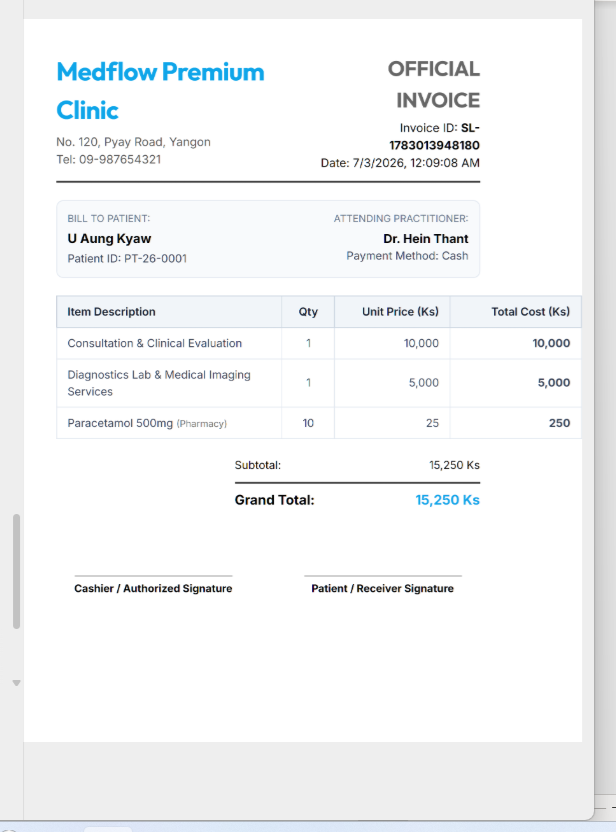
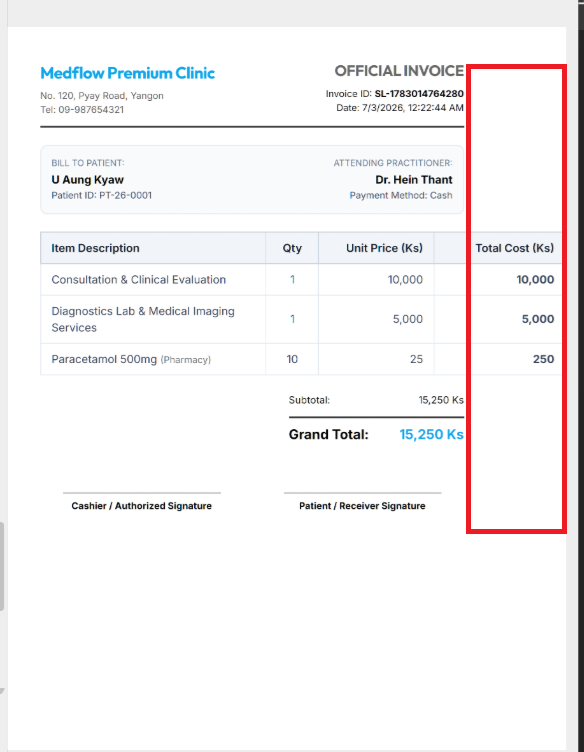
Enforce identical physical widths on both tables and all container blocks (header, details, totals) in printable formats to achieve pixel-perfect alignment

diff --git a/src/pages/POS.jsx b/src/pages/POS.jsx
@@ -836,42 +836,44 @@ export default function POS({ clinicMode }) {
               </div>
             </div>
 
-            <table style={{ width: '100%', borderCollapse: 'collapse', marginBottom: '20px' }}>
-              <thead>
-                <tr style={{ background: '#0f172a', color: '#fff', textAlign: 'left' }}>
-                  <th style={{ padding: '8px', border: '1px solid #334155', fontSize: '9.5pt' }}>Item Description</th>
-                  <th style={{ padding: '8px', border: '1px solid #334155', textAlign: 'center', width: '10%', fontSize: '9.5pt' }}>Qty</th>
-                  <th style={{ padding: '8px', border: '1px solid #334155', textAlign: 'right', width: '22%', fontSize: '9.5pt' }}>Unit Price (Ks)</th>
-                  <th style={{ padding: '8px', border: '1px solid #334155', textAlign: 'right', width: '25%', fontSize: '9.5pt' }}>Total Cost (Ks)</th>
-                </tr>
-              </thead>
-              <tbody>
-                <tr style={{ fontSize: '9.5pt' }}>
-                  <td style={{ padding: '8px', border: '1px solid #e2e8f0' }}>Consultation & Clinical Evaluation</td>
-                  <td style={{ padding: '8px', border: '1px solid #e2e8f0', textAlign: 'center' }}>1</td>
-                  <td style={{ padding: '8px', border: '1px solid #e2e8f0', textAlign: 'right' }}>{printInvoiceData.consultationFee.toLocaleString()}</td>
-                  <td style={{ padding: '8px', border: '1px solid #e2e8f0', textAlign: 'right', fontWeight: 'bold' }}>{printInvoiceData.consultationFee.toLocaleString()}</td>
-                </tr>
-                {printInvoiceData.investigationFee > 0 && (
+            <div style={{ width: '100%', boxSizing: 'border-box' }}>
+              <table style={{ width: '100%', borderCollapse: 'collapse', marginBottom: '20px' }}>
+                <thead>
+                  <tr style={{ background: '#0f172a', color: '#fff', textAlign: 'left' }}>
+                    <th style={{ padding: '8px', border: '1px solid #334155', fontSize: '9.5pt' }}>Item Description</th>
+                    <th style={{ padding: '8px', border: '1px solid #334155', textAlign: 'center', width: '10%', fontSize: '9.5pt' }}>Qty</th>
+                    <th style={{ padding: '8px', border: '1px solid #334155', textAlign: 'right', width: '22%', fontSize: '9.5pt' }}>Unit Price (Ks)</th>
+                    <th style={{ padding: '8px', border: '1px solid #334155', textAlign: 'right', width: '25%', fontSize: '9.5pt' }}>Total Cost (Ks)</th>
+                  </tr>
+                </thead>
+                <tbody>
                   <tr style={{ fontSize: '9.5pt' }}>
-                    <td style={{ padding: '8px', border: '1px solid #e2e8f0' }}>Diagnostics Lab & Medical Imaging Services</td>
+                    <td style={{ padding: '8px', border: '1px solid #e2e8f0' }}>Consultation & Clinical Evaluation</td>
                     <td style={{ padding: '8px', border: '1px solid #e2e8f0', textAlign: 'center' }}>1</td>
-                    <td style={{ padding: '8px', border: '1px solid #e2e8f0', textAlign: 'right' }}>{printInvoiceData.investigationFee.toLocaleString()}</td>
-                    <td style={{ padding: '8px', border: '1px solid #e2e8f0', textAlign: 'right', fontWeight: 'bold' }}>{printInvoiceData.investigationFee.toLocaleString()}</td>
+                    <td style={{ padding: '8px', border: '1px solid #e2e8f0', textAlign: 'right' }}>{printInvoiceData.consultationFee.toLocaleString()}</td>
+                    <td style={{ padding: '8px', border: '1px solid #e2e8f0', textAlign: 'right', fontWeight: 'bold' }}>{printInvoiceData.consultationFee.toLocaleString()}</td>
                   </tr>
-                )}
-                {printInvoiceData.items.map((item, idx) => (
-                  <tr key={idx} style={{ fontSize: '9.5pt' }}>
-                    <td style={{ padding: '8px', border: '1px solid #e2e8f0' }}>
-                      {item.name} <span style={{ fontSize: '8pt', color: '#666' }}>({item.type === 'custom' ? 'Service/Fee' : 'Pharmacy'})</span>
-                    </td>
-                    <td style={{ padding: '8px', border: '1px solid #e2e8f0', textAlign: 'center' }}>{item.quantity}</td>
-                    <td style={{ padding: '8px', border: '1px solid #e2e8f0', textAlign: 'right' }}>{item.unitPrice.toLocaleString()}</td>
-                    <td style={{ padding: '8px', border: '1px solid #e2e8f0', textAlign: 'right', fontWeight: 'bold' }}>{item.totalCost.toLocaleString()}</td>
-                  </tr>
-                ))}
-              </tbody>
-            </table>
+                  {printInvoiceData.investigationFee > 0 && (
+                    <tr style={{ fontSize: '9.5pt' }}>
+                      <td style={{ padding: '8px', border: '1px solid #e2e8f0' }}>Diagnostics Lab & Medical Imaging Services</td>
+                      <td style={{ padding: '8px', border: '1px solid #e2e8f0', textAlign: 'center' }}>1</td>
+                      <td style={{ padding: '8px', border: '1px solid #e2e8f0', textAlign: 'right' }}>{printInvoiceData.investigationFee.toLocaleString()}</td>
+                      <td style={{ padding: '8px', border: '1px solid #e2e8f0', textAlign: 'right', fontWeight: 'bold' }}>{printInvoiceData.investigationFee.toLocaleString()}</td>
+                    </tr>
+                  )}
+                  {printInvoiceData.items.map((item, idx) => (
+                    <tr key={idx} style={{ fontSize: '9.5pt' }}>
+                      <td style={{ padding: '8px', border: '1px solid #e2e8f0' }}>
+                        {item.name} <span style={{ fontSize: '8pt', color: '#666' }}>({item.type === 'custom' ? 'Service/Fee' : 'Pharmacy'})</span>
+                      </td>
+                      <td style={{ padding: '8px', border: '1px solid #e2e8f0', textAlign: 'center' }}>{item.quantity}</td>
+                      <td style={{ padding: '8px', border: '1px solid #e2e8f0', textAlign: 'right' }}>{item.unitPrice.toLocaleString()}</td>
+                      <td style={{ padding: '8px', border: '1px solid #e2e8f0', textAlign: 'right', fontWeight: 'bold' }}>{item.totalCost.toLocaleString()}</td>
+                    </tr>
+                  ))}
+                </tbody>
+              </table>
+            </div>
 
             <div style={{ display: 'flex', justifyContent: 'flex-end', marginTop: '20px' }}>
               <div style={{ width: '280px', display: 'flex', flexDirection: 'column', gap: '6px', fontSize: '9.5pt' }}>

diff --git a/src/index.css b/src/index.css
@@ -900,15 +900,36 @@ input:focus, select:focus, textarea:focus {
   }
 
   /* Force standard table display properties on print sheets (prevents mobile display: block overrides) */
-  .a4-invoice table,
-  .a5-invoice table {
+  .a4-invoice table {
     display: table !important;
-    width: 100% !important;
+    width: 180mm !important;
+    max-width: 180mm !important;
     table-layout: fixed !important; /* Force columns to respect percentage widths */
     border-collapse: collapse !important;
     margin-top: 15px !important;
     margin-bottom: 20px !important;
   }
+  .a5-invoice table {
+    display: table !important;
+    width: 128mm !important;
+    max-width: 128mm !important;
+    table-layout: fixed !important; /* Force columns to respect percentage widths */
+    border-collapse: collapse !important;
+    margin-top: 15px !important;
+    margin-bottom: 20px !important;
+  }
+  /* Force direct child containers to span the exact paper content width */
+  .a4-invoice > div {
+    width: 180mm !important;
+    max-width: 180mm !important;
+    box-sizing: border-box !important;
+  }
+  .a5-invoice > div {
+    width: 128mm !important;
+    max-width: 128mm !important;
+    box-sizing: border-box !important;
+  }
+
   .a4-invoice thead,
   .a5-invoice thead {
     display: table-header-group !important;
